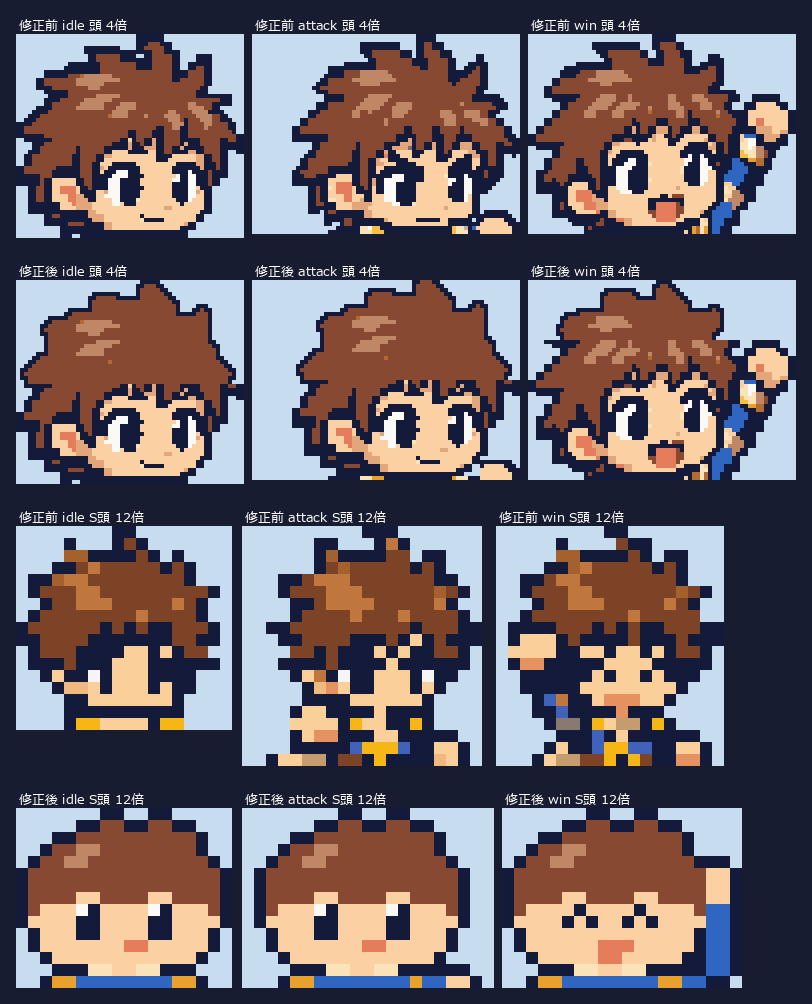
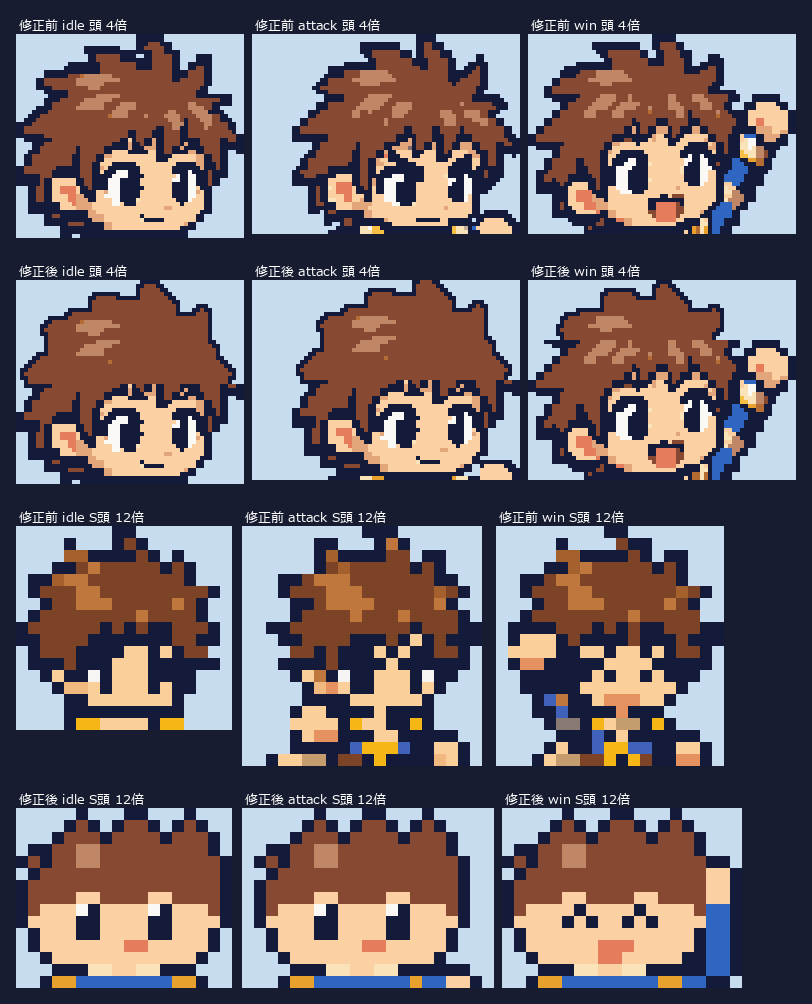
戦士v3b追加修正：被弾はのけぞりを大きく剣は手から右上へ・ready=両手で剣を立てる/guard=剣を横にして胸の前で受ける（膝を曲げる）・S絵にとがった髪（3つ）・濃淡のある紺の鎧・肩の金（2px）を足してLと同じ人に・L剣の倍率0.65

Changed region(s): [[0.0, 0.8028, 0.585, 0.8954], [0.6158, 0.8028, 0.8929, 0.8954]]

diff --git a/rpg/tools/parts_body_v3b_fix.py b/rpg/tools/parts_body_v3b_fix.py
@@ -64,6 +64,26 @@ def closed_eyes(a):
         for x in xs: a[y, x] = [*OUT, 255]
     return a
 
+
+BLUE = (47, 102, 194)
+def erase_fists(a, ent):
+    """待機の両拳（肌色・影・桃色）を袖の青で塗りつぶす。右は手部品の範囲、左は左右対称の位置（輪郭は残す）"""
+    a = a.copy(); hx, hy = ent['handPos']; hh, hw = load(ent['hand']).shape[:2]; w = a.shape[1]
+    skin = [SK, (227, 166, 122), (229, 124, 91), (250, 227, 185)]
+    for x0, x1 in ((hx, hx + hw), (8, 18)):
+        for y in range(hy, hy + hh):
+            for x in range(x0, x1):
+                if 0 <= x < w and a[y, x, 3] > 0 and tuple(a[y, x, :3]) in skin: a[y, x] = [*BLUE, 255]
+    return a
+def draw_arm(a, p0, p1, thick=3):
+    """袖の青の腕を p0→p1 に描き、外側に輪郭1色・1px"""
+    a = a.copy(); h, w = a.shape[:2]; m = np.zeros((h, w), bool); n = 40
+    for i in range(n + 1):
+        cx = p0[0] + (p1[0] - p0[0]) * i / n; cy = p0[1] + (p1[1] - p0[1]) * i / n
+        yy, xx = np.ogrid[:h, :w]; m |= (yy - cy) ** 2 + (xx - cx) ** 2 <= (thick / 2 + 0.6) ** 2
+    ring = ndi.binary_dilation(m, structure=np.ones((3, 3), bool)) & ~m
+    a[ring] = [*OUT, 255]; a[m] = [*BLUE, 255]; return a
+
 def hand_layer(ent, shape):
     L = np.zeros(shape, np.uint8)
     if ent.get('hand'):
@@ -100,18 +120,34 @@ def main():
     idle = tone_shoulders(simplify_hair(idle, st - 3), fb + 1, fb + 11)
     win = load(f'body_{J}_win_L.png'); fbw, _, stw = face_info(win); win = tone_shoulders(simplify_hair(win, stw - 3), fbw + 1, fbw + 11)
     atk = paste_head(load(f'body_{J}_attack_L.png'), idle); fba = face_info(atk)[0]; atk = tone_shoulders(atk, fba + 1, fba + 11)
-    WS = 0.85
+    WS = 0.65
     e = ent('idle', 'L'); write_pose(J, 'idle', 'L', idle, e, load(e['hand']), e['handPos'], gripAngle=5, weaponScale=WS)
     e = ent('attack', 'L'); ah = load(e['hand']); write_pose(J, 'attack', 'L', atk, e, ah, e['handPos'], weaponScale=WS)
     e = ent('win', 'L'); write_pose(J, 'win', 'L', win, e, load(e['hand']), e['handPos'], weaponScale=WS)
-    e = ent('attack', 'L'); write_pose(J, 'ready', 'L', atk, e, ah, e['handPos'], gripAngle=20, weaponScale=WS)
-    hl = hand_layer(e, atk.shape); rows = [y for y in range(atk.shape[0]) if y not in (74, 77, 80)]; dx = [0] * len(rows)
-    gb, _ = remap(atk, rows, dx); ghl, _ = remap(hl, rows, dx); ha, hp = crop_hand(ghl)
-    write_pose(J, 'guard', 'L', gb, e, ha, hp, gripAngle=-12, weaponScale=WS, refoot=True)
+    # ready/guard：待機の身体の両拳を消し、腕を前へ描き直して両手で剣を持つ（待機の頭のまま）
+    ie = ent('idle', 'L'); fist = load(ie['hand']); fh, fw = fist.shape[:2]
+    base = erase_fists(idle, ie)
+    def two_hands(vertical, gap=1):
+        W_, H_ = (fw, fh * 2 + gap) if vertical else (fw * 2 + gap, fh); c = np.zeros((H_, W_, 4), np.uint8)
+        c[0:fh, 0:fw] = fist
+        if vertical: c[fh + gap:, :fw] = fist
+        else: c[:, fw + gap:] = fist
+        return c
+    # ready：剣を両手で身体の前に立てる（拳は腹の前に縦に2つ）
+    hc = two_hands(True, 0); hp = (26, 64)
+    rb = draw_arm(draw_arm(base, (49, 76), (hp[0] + 9, hp[1] + 3)), (13, 77), (hp[0] + 2, hp[1] + 13))
+    write_pose(J, 'ready', 'L', rb, ie, hc, list(hp), gripAngle=12, weaponScale=WS)
+    # guard：膝を曲げて3行低く、剣を横にして顔〜胸の前で受ける（拳は胸の前に横に2つ）
+    hc = two_hands(False); hp = (17, 52)
+    gb = draw_arm(draw_arm(base, (49, 76), (hp[0] + 17, hp[1] + 6)), (13, 77), (hp[0] + 4, hp[1] + 6))
+    rows = [y for y in range(gb.shape[0]) if y not in (85, 88, 91)]
+    gb, _ = remap(gb, rows, [0] * len(rows))
+    write_pose(J, 'guard', 'L', gb, ie, hc, list(hp), gripAngle=78, weaponScale=WS, refoot=True)
+    # hit：待機を大きく後ろへのけぞらせ、目を閉じる。剣は手から離さず右上へ流す
     e = ent('idle', 'L'); hl = hand_layer(e, idle.shape); hb = closed_eyes(idle)
-    rows = list(range(idle.shape[0])); dx = [-int(round(max(0, 72 - y) / 72 * 5)) for y in rows]
+    rows = list(range(idle.shape[0])); dx = [-int(round((max(0, 76 - y) / 76) ** 1.3 * 17)) for y in rows]
     hbb, _ = remap(hb, rows, dx); hhl, _ = remap(hl, rows, dx); ha, hp = crop_hand(hhl)
-    write_pose(J, 'hit', 'L', hbb, e, ha, hp, gripAngle=105, weaponScale=WS, refoot=True)
+    write_pose(J, 'hit', 'L', hbb, e, ha, hp, gripAngle=60, weaponScale=WS, refoot=True)
     from parts_body_v3b_s import build_s
     build_s(J, ent, save, write_pose)
 

diff --git a/rpg/tools/parts_body_v3b_s.py b/rpg/tools/parts_body_v3b_s.py
@@ -3,15 +3,15 @@
 import numpy as np
 
 COL = {'O': (20, 26, 58), 'H': (136, 73, 50), 'B': (191, 135, 102), 'G': (251, 209, 164), 'W': (250, 249, 246), 'M': (229, 124, 91),
-       'U': (47, 102, 194), 'Y': (232, 161, 44), 'T': (180, 108, 50), 'C': (227, 166, 122), 'D': (250, 227, 185), 'N': (20, 26, 58)}
+       'U': (47, 102, 194), 'V': (30, 72, 150), 'Y': (232, 161, 44), 'T': (180, 108, 50), 'C': (227, 166, 122), 'D': (250, 227, 185), 'N': (20, 26, 58)}
 CW = 22      # 作業幅。頭は x=3〜18
 def pad(s): return '...' + s + '...'
 
-HEAD = ['......HH..HH....',
-        '....HHHHHHHHHH..',
-        '..HHBBHHHHHHHH..',
-        '.HHBBHHHHHHHHHH.',
-        'HHHHHHHHHHHHHHHH',
+HEAD = ['....H...HH...H..',
+        '...HHH.HHHH.HHH.',
+        '..HHBBHHHHHHHHH.',
+        'H.HHBBHHHHHHHHHH',
+        '.HHHHHHHHHHHHHHH',
         'HHHHHHHHHHHHHHHH',
         'HHHHGGHHHHGGHHHH',
         'HGGGNNGGGGNNGGGH',
@@ -36,15 +36,15 @@ def head_variant(kind):
 
 BODY = ['.....DDGGDD.....',
         '..YYUUUUUUUUYY..',
-        '.CUUUUUUUUUUUUC.',
-        'CCUUUUUUUUUUUUCC',
-        'CCGGUUUUUUUUGGCC',
-        'CCGGUUUUUUUUGGCC',
+        '.CYYVUUUUUUVYYC.',
+        'CCUVUUUUUUUUVUCC',
+        'CCGGVUUUUUUVGGCC',
+        'CCGGVUUUUUUVGGCC',
         '.CUUTTTYYTTTUUC.',
-        '..UUYUUUUUUYUU..',
-        '....UUU..UUU....',
-        '....UUU..UUU....',
-        '....UUU..UUU....',
+        '..VVYVVVVVVYVV..',
+        '....VVV..VVV....',
+        '....VVV..VVV....',
+        '....VVV..VVV....',
         '...TTTT..TTTT...',
         '...TTTT..TTTT...',
         '...HHHH..HHHH...']
